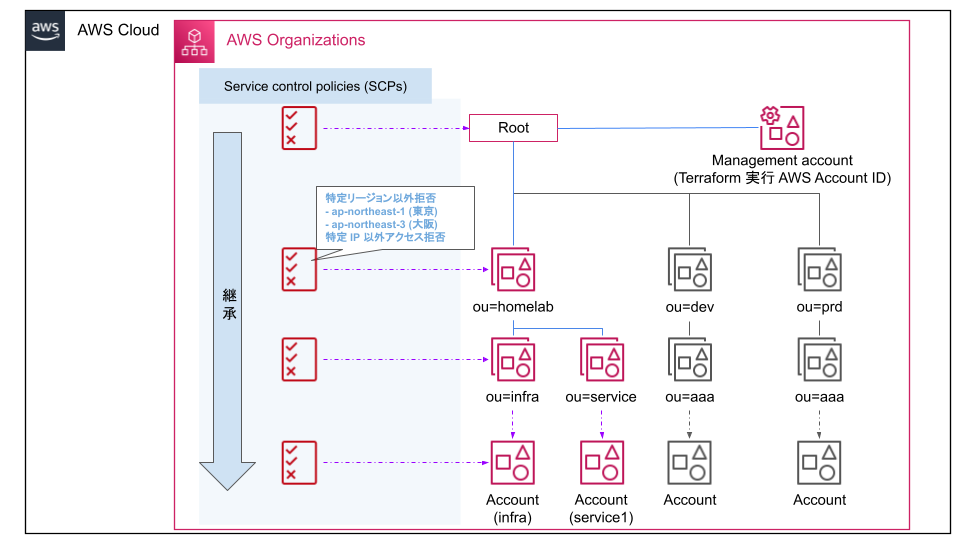
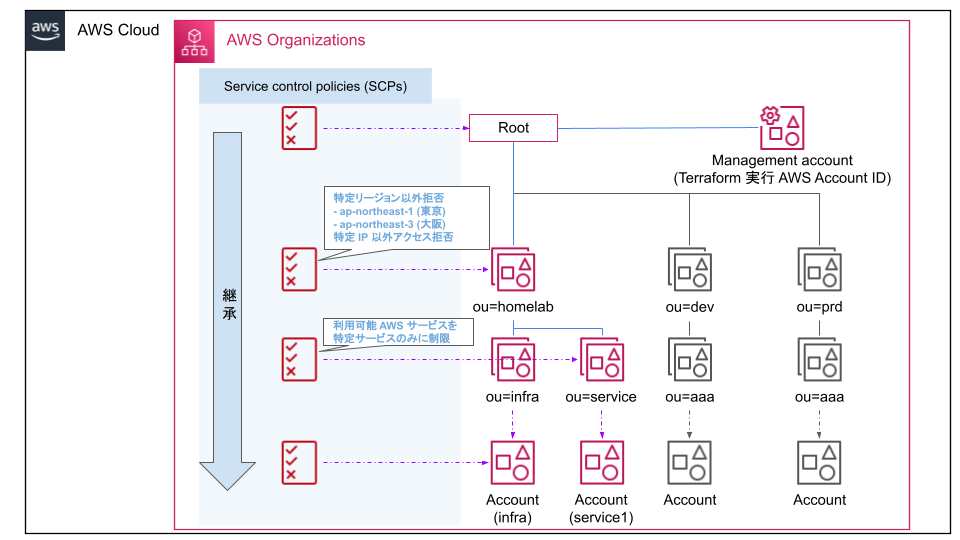
Add: AWS Service 制限, Fix: SSO 有効化設定

Changed region(s): [[0.3125, 0.3556, 0.4688, 0.4741], [0.3438, 0.5926, 0.5, 0.6519], [0.3125, 0.4741, 0.3438, 0.5037]]

diff --git a/env/homelab/organizations/README.md b/env/homelab/organizations/README.md
@@ -108,15 +108,30 @@ terraform apply
 
 以上で、パスワード設定が完了して、払い出しアカウントへログインが可能になる
 
+
+#### 既存のアカウントを Organization Account に招待する
+
+`AWS Organizations > AWS アカウント > AWS アカウントを追加` で、 `既存の AWS アカウントを招待` を選択して、AWS アカウントの情報を入れて招待する
+
+![AWS_ORGANIZATIONS_ACCOUNT_INVITE_1.png](images/AWS_ORGANIZATIONS_ACCOUNT_INVITE_1.png)
+
+招待後に、Terraform へ import する例は下記のように AWS Account ID を対象のリソースへ import する
+
+```sh
+terraform import aws_organizations_account.ou1-1-account1 XXXXXXXXXXXX
+```
+
+
 ## SCP (Service Control Policies)
 組織のアクセス許可設定を一元的にポリシー管理ができる SCP を設定する ([ドキュメント](https://docs.aws.amazon.com/ja_jp/organizations/latest/userguide/orgs_manage_policies_scps.html))
 
 下記を設定
 
-|  sid  | 内容  |  default  |
-| ---- | ---- | ---- |
-| RegionRestriction | 設定以外のリージョンを拒否 | ["ap-northeast-1", "ap-northeast-3", ] |
-| SourceIpRestriction | 設定以外の送信元IPを拒否 | - |
+|  sid  | 内容  |  default  |  設定変数  |
+| ---- | ---- | ---- | ---- |
+| RegionRestriction | 設定以外のリージョンを拒否 (Global サービス以外) |["ap-northeast-1", "ap-northeast-3", ] | restrict_regions | 
+| SourceIpRestriction | 設定以外の送信元IPを拒否 | - | restrict_source_ips |
+| AwsServiceRestriction | 設定以外の AWS Service の利用を拒否 | [`*`] (全て許可.制限時も`iam:*`,`support:*`は許可) | allow_service_prefix_list |
 
 ### RegionRestriction
 
@@ -160,6 +175,10 @@ terraform apply
 許可していないアクセス元 IP からだとエラーで見れない
 
 ![AWS_SourceIpRestriction_S3_DENY.png](images/AWS_SourceIpRestriction_S3_DENY.png)
+
+### AwsServiceRestriction
+AWS Service (ES2, S3, etc.) を組織的に利用できるサービスを制限する<br>
+組織的にセキュリティチェックをしたサービスのみ利用可能にしたい場合などに、ホワイトリスト形式( 例：[`ec2:*`,`s3:*`,])で制御する (デフォルトは全て許可[`*`])
 
 ## その他
 

diff --git a/env/homelab/sso/README.md b/env/homelab/sso/README.md
@@ -27,13 +27,15 @@ AWS Organization 有効化済み (`../organizaions/` を実施済み)
 ### 設定区分
 
 - 手動設定が必要
-  - [AWS SSO 有効化](#AWS-SSO-の有効化)
+  - [AWS SSO 有効化](#AWS-SSO-の有効化) ※
   - [AWS SSO ID ソース設定](#AWS-SSO-ID-ソース-設定)
   - [AWS SSO ID ユーザー, グループ作成](#aws-sso-id-ユーザー-グループ作成)
   - [MFA 設定](#MFA-認証)
 - [Terraform](#グループへの権限設定とアカウントへの紐付け-terraform)
   - 権限設定
   - アカウントへの設定
+
+※ `../organizations/organization.tf` の `aws_service_access_principals` で `sso.amazonaws.com` を有効化している場合は不要
 
 
 ### AWS SSO の有効化
